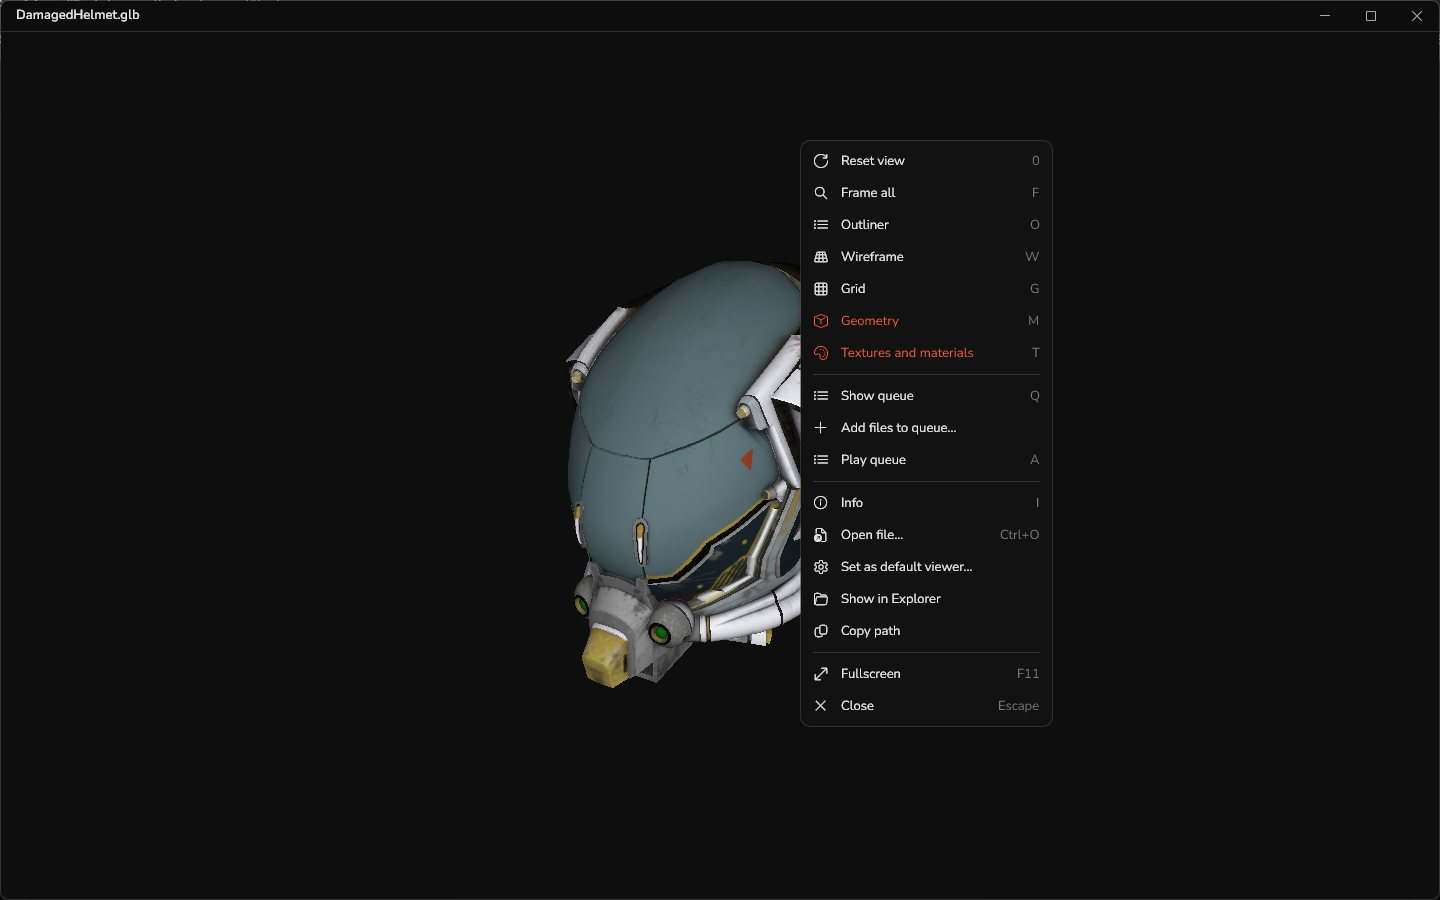
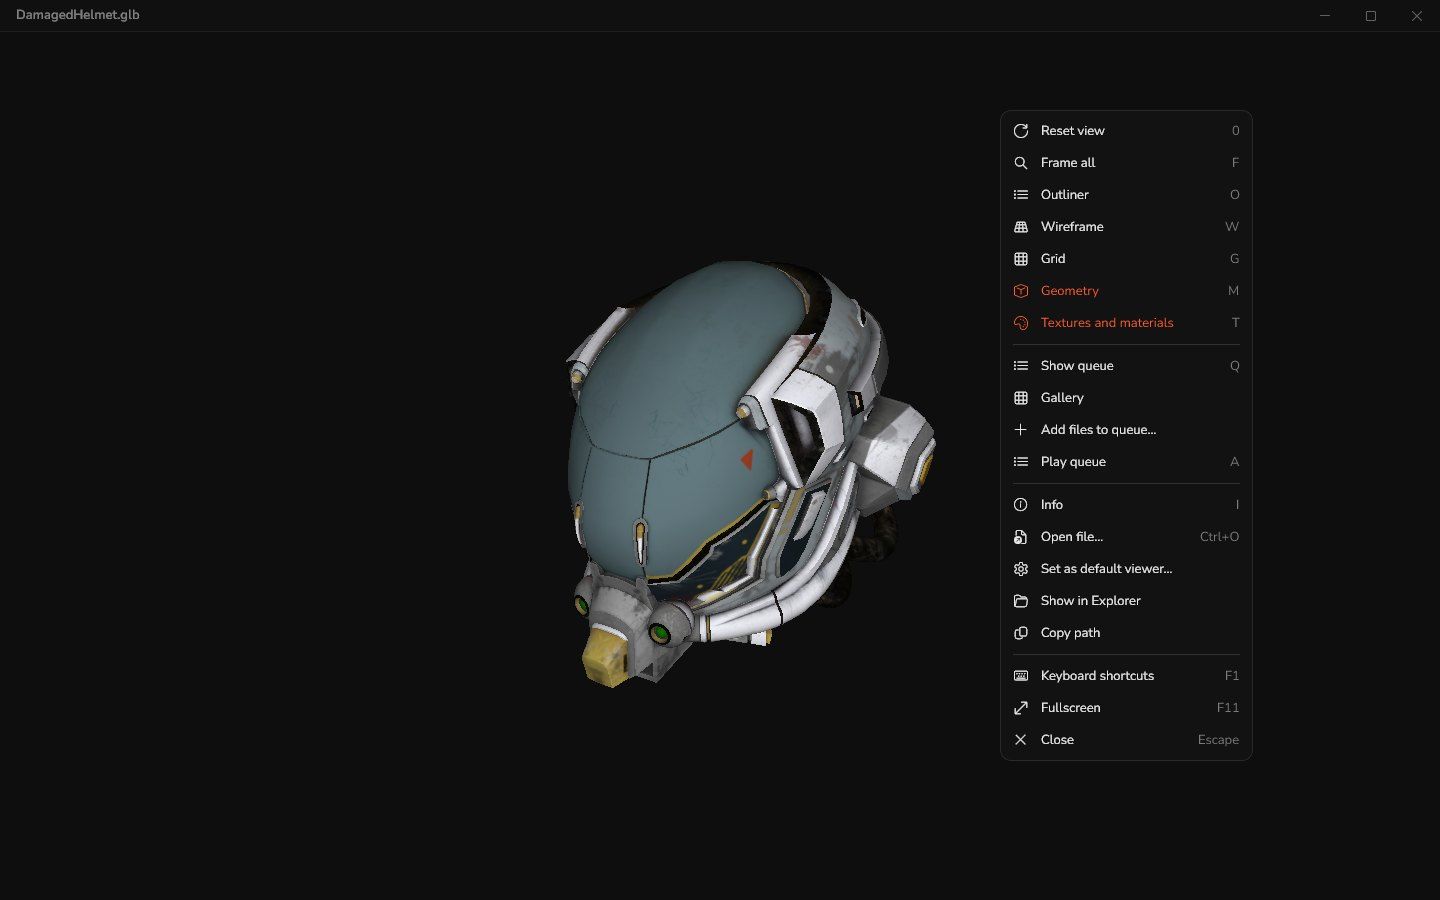
Website: new screenshots (Spring, HDR, compare, gallery, menu)
- Video shot: Spring (Blender Open Movie) playing; frames credited (CC BY 4.0).
- EXR shot: own HDR render at -3.3 EV with float readout, histogram and loupe.
- New compare (wipe) and gallery shots; refreshed info-panel and right-click menu shots.
- Removed the Windows wallpaper that the earlier image shots were made from.

diff --git a/docs/index.html b/docs/index.html
@@ -80,6 +80,8 @@
 
   .gallery { display: grid; grid-template-columns: repeat(2, 1fr); gap: 20px; }
   .gallery figure { margin: 0; }
+  .credits { margin: 24px 0 0; font-size: 13px; color: var(--muted); }
+  .credits a { color: inherit; }
   .gallery figure:first-child, .gallery figure:last-child:nth-child(even) { grid-column: 1 / -1; }
   .gallery a { display: block; border-radius: 12px; overflow: hidden; border: 1px solid var(--edge); box-shadow: 0 20px 50px #0008; transition: transform .2s, border-color .2s; }
   .gallery a:hover { transform: translateY(-2px); border-color: #ff5b2e66; }
@@ -146,16 +148,19 @@
     <h2>See it</h2>
     <p class="sub">The same window for every kind of file.</p>
     <div class="gallery">
-      <figure><a href="shots/usd-outliner.jpg"><img src="shots/usd-outliner.jpg" width="1440" height="900" alt="Pixar Kitchen Set USD scene with the outliner open"></a><figcaption><b>USD</b> · Pixar's Kitchen Set with the outliner</figcaption></figure>
-      <figure><a href="shots/exr-inspect.jpg"><img src="shots/exr-inspect.jpg" width="1440" height="900" alt="EXR image with the inspection panel and pixel loupe" loading="lazy"></a><figcaption><b>EXR</b> · channels, exposure, gamma and pixel readout</figcaption></figure>
-      <figure><a href="shots/photo-info.jpg"><img src="shots/photo-info.jpg" width="1440" height="900" alt="JPEG photo with the info panel showing metadata and EXIF" loading="lazy"></a><figcaption><b>JPEG</b> · info panel with metadata and EXIF</figcaption></figure>
-      <figure><a href="shots/video.jpg"><img src="shots/video.jpg" width="1440" height="900" alt="AV1 video playing with the player bar" loading="lazy"></a><figcaption><b>AV1 / MKV</b> · player bar with frame counter</figcaption></figure>
+      <figure><a href="shots/video.jpg"><img src="shots/video.jpg" width="1440" height="900" alt="The Blender open movie Spring playing in ezview with the player bar"></a><figcaption><b>WebM</b> · <i>Spring</i> playing, with the frame counter</figcaption></figure>
+      <figure><a href="shots/exr-inspect.jpg"><img src="shots/exr-inspect.jpg" width="1440" height="900" alt="HDR EXR render shown at minus 3.3 EV with float pixel values, histogram and loupe" loading="lazy"></a><figcaption><b>EXR / HDR</b> · −3.3 EV brings the highlights back; float readout, histogram and loupe</figcaption></figure>
+      <figure><a href="shots/compare.jpg"><img src="shots/compare.jpg" width="1440" height="900" alt="Two color grades of a film frame compared with a wipe line" loading="lazy"></a><figcaption><b>Compare</b> · wipe between two versions (B pins one, C switches mode, Tab flips)</figcaption></figure>
+      <figure><a href="shots/gallery.jpg"><img src="shots/gallery.jpg" width="1440" height="900" alt="Gallery view with thumbnails of images, video, an image sequence and 3D models" loading="lazy"></a><figcaption><b>Gallery</b> · the whole folder as thumbnails, video and 3D included (G)</figcaption></figure>
+      <figure><a href="shots/usd-outliner.jpg"><img src="shots/usd-outliner.jpg" width="1440" height="900" alt="Pixar Kitchen Set USD scene with the outliner open" loading="lazy"></a><figcaption><b>USD</b> · Pixar's Kitchen Set with the outliner</figcaption></figure>
+      <figure><a href="shots/photo-info.jpg"><img src="shots/photo-info.jpg" width="1440" height="900" alt="Image with the info panel showing file and image metadata" loading="lazy"></a><figcaption><b>JPEG</b> · info panel with file and image metadata</figcaption></figure>
       <figure><a href="shots/sequence.jpg"><img src="shots/sequence.jpg" width="1440" height="900" alt="EXR image sequence playing as a clip with frame numbers" loading="lazy"></a><figcaption><b>Image sequence</b> · shot.[1001–1048].exr as one clip</figcaption></figure>
       <figure><a href="shots/usd-walk.jpg"><img src="shots/usd-walk.jpg" width="1440" height="900" alt="Skinned USD character walking with the skeleton shown" loading="lazy"></a><figcaption><b>UsdSkel</b> · skinned character walk cycle with skeleton (B)</figcaption></figure>
       <figure><a href="shots/anim-abc.jpg"><img src="shots/anim-abc.jpg" width="1440" height="900" alt="Animated Alembic scene playing with the timeline" loading="lazy"></a><figcaption><b>Alembic</b> · animated 3D scene on a timeline, frame by frame</figcaption></figure>
       <figure><a href="shots/context-menu.jpg"><img src="shots/context-menu.jpg" width="1440" height="900" alt="Right-click menu over a textured glTF model" loading="lazy"></a><figcaption><b>Right-click menu</b> · every action and its shortcut, here on a glTF model</figcaption></figure>
       <figure><a href="shots/fbx-wire.jpg"><img src="shots/fbx-wire.jpg" width="1440" height="900" alt="FBX spider model in wireframe" loading="lazy"></a><figcaption><b>FBX</b> · wireframe (W)</figcaption></figure>
     </div>
+    <p class="credits">Film frames from <i>Spring</i> © Blender Foundation | <a href="https://studio.blender.org/films/spring/">studio.blender.org/films/spring</a>, <a href="https://creativecommons.org/licenses/by/4.0/">CC BY 4.0</a>; the compare shot shows a color-graded copy. <i>Damaged Helmet</i> by theblueturtle_, CC BY 4.0. The HDR spheres were rendered for this page.</p>
   </div>
 </section>
 
